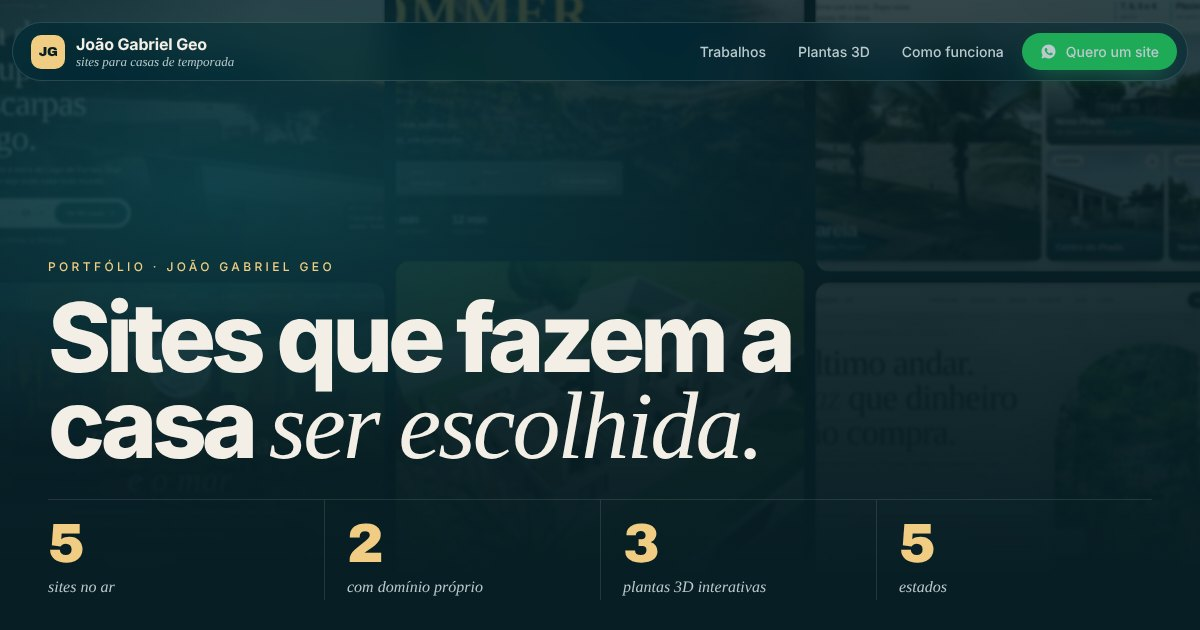
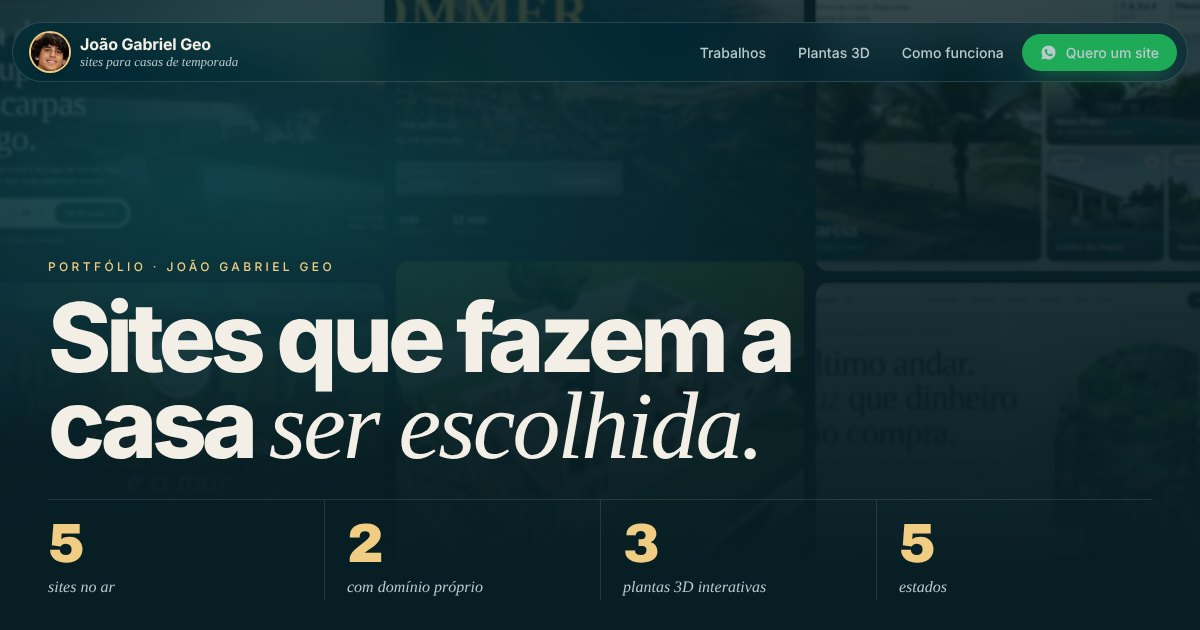
Portfólio: foto do João no lugar do JG, também na prévia do link
Claude-Session: https://claude.ai/code/session_019DD4Fyus8cYbBLTfuo8jed

diff --git a/portfolio/index.html b/portfolio/index.html
@@ -10,7 +10,7 @@
 <meta property="og:description" content="Sites de apresentação com galeria, planta 3D e caminho curto até a reserva.">
 <meta property="og:type" content="website">
 <meta property="og:url" content="https://jgg190310-ops.github.io/Imoveis/portfolio/">
-<meta property="og:image" content="https://jgg190310-ops.github.io/Imoveis/portfolio/img/capa-link.jpg">
+<meta property="og:image" content="https://jgg190310-ops.github.io/Imoveis/portfolio/img/capa-link.jpg?v=2">
 <meta property="og:image:type" content="image/jpeg">
 <meta property="og:image:width" content="1200">
 <meta property="og:image:height" content="630">
@@ -42,8 +42,7 @@ img{display:block;max-width:100%}
   box-shadow:0 18px 50px -30px rgba(0,0,0,.8);transition:background .3s,border-color .3s}
 #bar.solid{background:rgba(7,30,36,.72);border-color:rgba(240,205,130,.22)}
 .marca{display:flex;align-items:center;gap:11px;font-weight:700;font-size:16px;letter-spacing:-.01em;white-space:nowrap}
-.marca i{width:34px;height:34px;border-radius:10px;background:var(--gold);color:var(--bg);display:grid;place-items:center;
-  font:normal 13px var(--num);letter-spacing:-.04em}
+.marca img{width:38px;height:38px;border-radius:50%;object-fit:cover;flex:none;box-shadow:0 0 0 2px var(--gold),0 6px 14px -6px rgba(0,0,0,.6)}
 .marca small{display:block;font-family:var(--serif);font-style:italic;font-weight:300;font-size:13px;color:var(--ink2);letter-spacing:0}
 #bar nav{display:flex;align-items:center;gap:4px}
 #bar nav a{font-size:14px;font-weight:500;color:var(--ink2);padding:9px 14px;border-radius:999px;transition:color .2s,background .2s}
@@ -198,7 +197,7 @@ footer a{color:var(--ink2)}
 <body>
 
 <header id="bar">
-  <a class="marca" href="#capa" aria-label="Início"><i>JG</i><div>João Gabriel Geo<small>sites para casas de temporada</small></div></a>
+  <a class="marca" href="#capa" aria-label="Início"><img src="img/joao.webp" alt="João Gabriel Geo" width="38" height="38"><div>João Gabriel Geo<small>sites para casas de temporada</small></div></a>
   <nav>
     <a href="#trabalhos">Trabalhos</a>
     <a href="#plantas">Plantas 3D</a>
